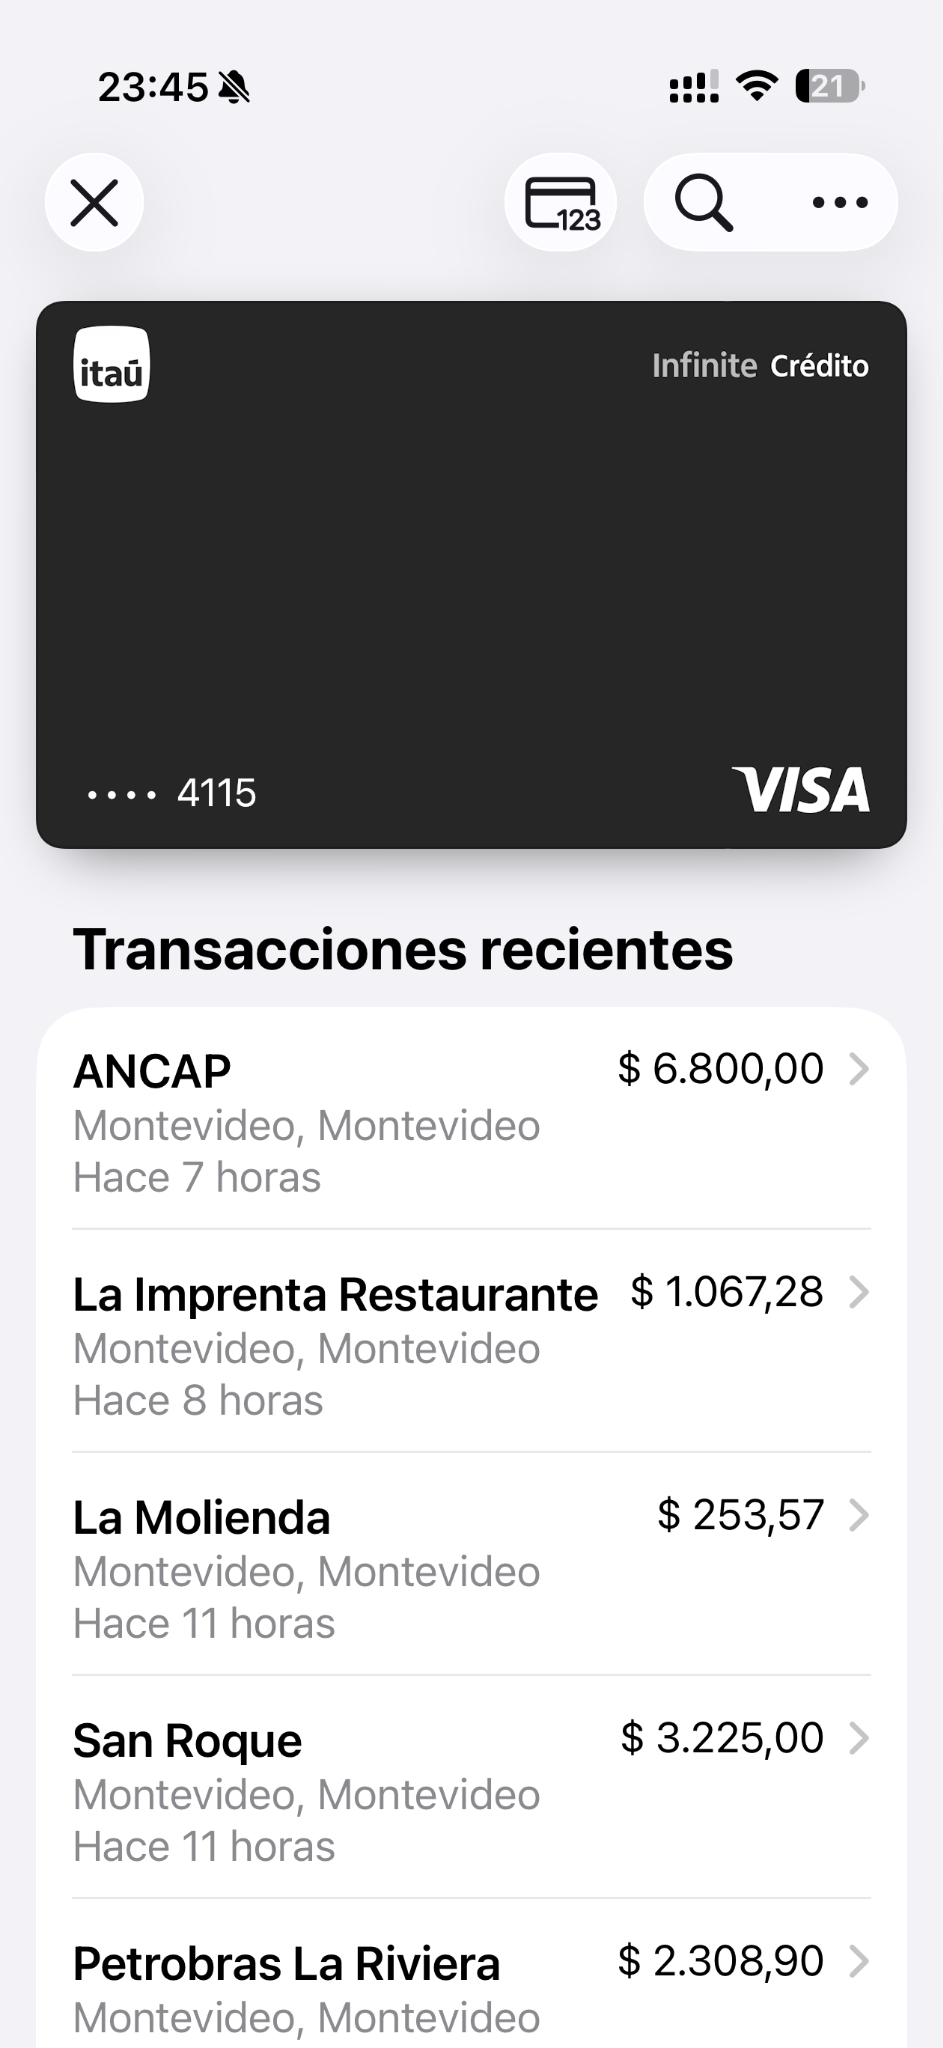
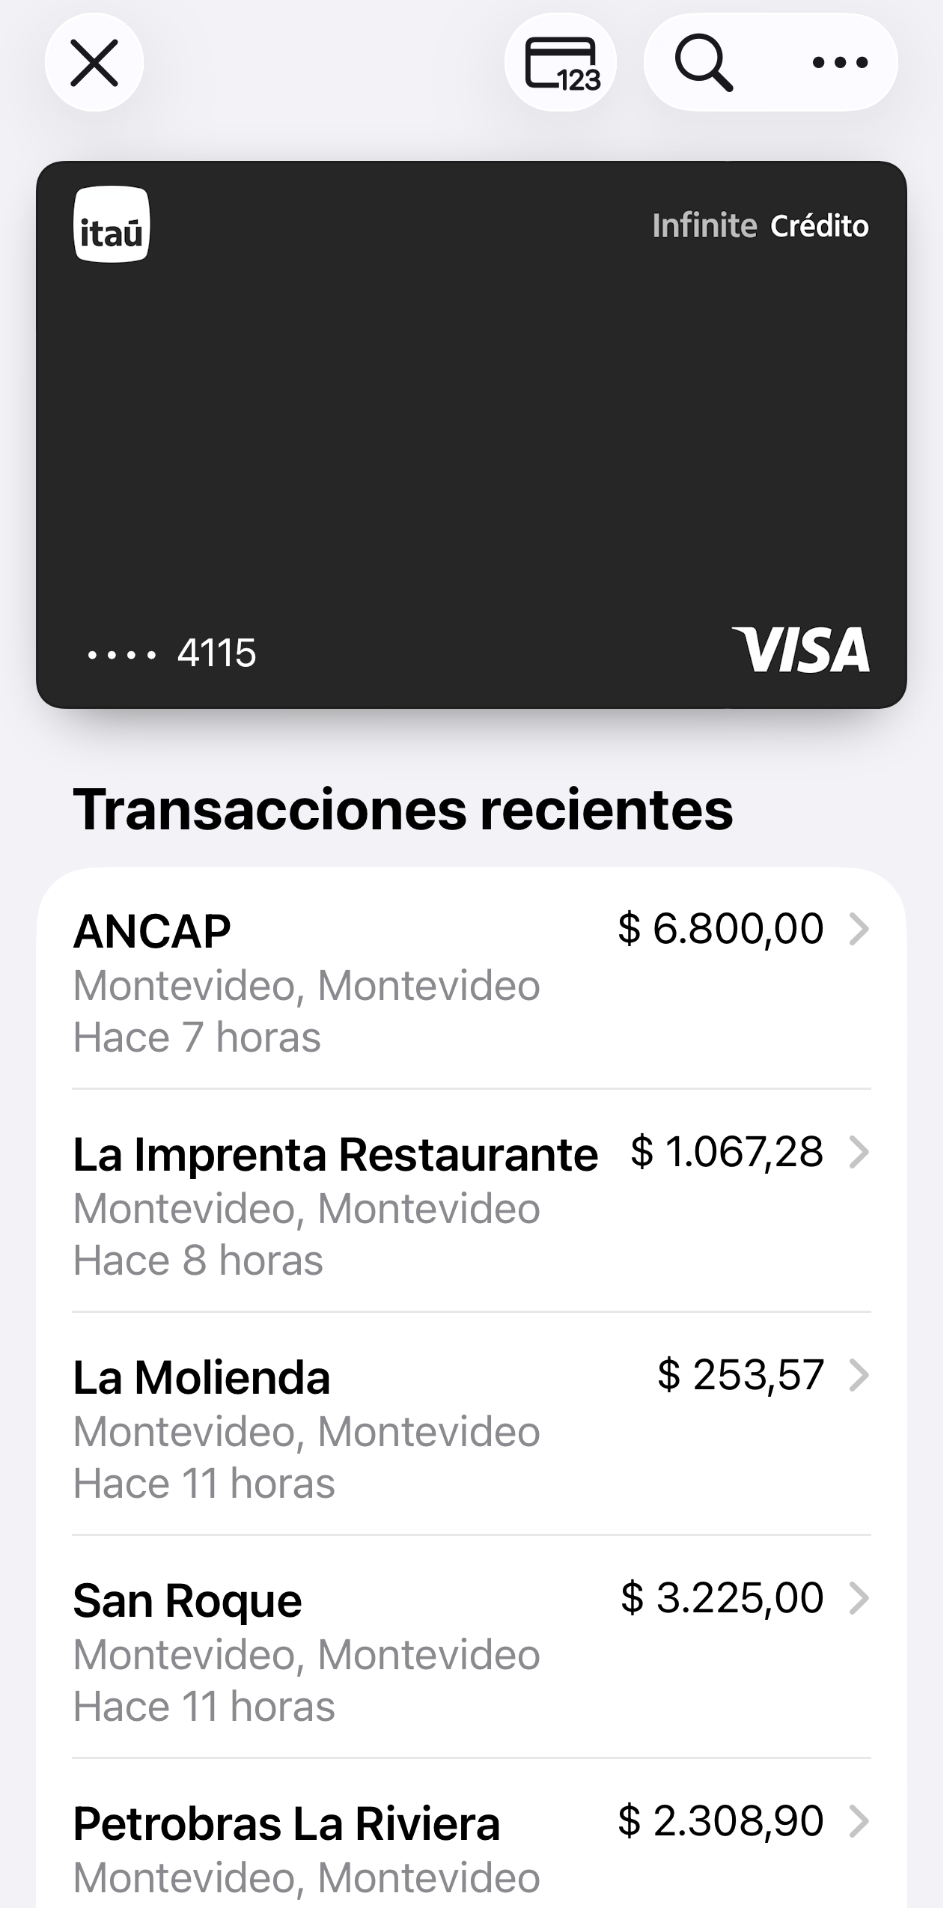
Fondo: recortar barra de estado de la captura (evita doble hora)
La imagen se apoya debajo de la barra de estado real y el fondo usa
#f2f2f7 como Wallet. Caché v5.

diff --git a/index.html b/index.html
@@ -3,24 +3,25 @@
 <head>
   <meta charset="utf-8">
   <meta name="viewport" content="width=device-width,initial-scale=1,viewport-fit=cover,user-scalable=no">
-  <meta name="theme-color" content="#f0eff4">
+  <meta name="theme-color" content="#f2f2f7">
   <meta name="apple-mobile-web-app-capable" content="yes">
   <meta name="apple-mobile-web-app-status-bar-style" content="default">
   <meta name="apple-mobile-web-app-title" content="RayPay">
   <meta name="description" content="RayPay: rayo y trueno sobre una captura de Apple Wallet.">
-  <link rel="manifest" href="manifest.webmanifest?v=3">
+  <link rel="manifest" href="manifest.webmanifest?v=5">
   <link rel="apple-touch-icon" href="icons/icon-192.png">
   <link rel="icon" type="image/png" href="icons/icon-192.png">
   <title>RayPay</title>
   <style>
     * { box-sizing: border-box; -webkit-tap-highlight-color: transparent; }
-    html, body { width:100%;height:100%;margin:0;overflow:hidden;background:#f0eff4; }
+    html, body { width:100%;height:100%;margin:0;overflow:hidden;background:#f2f2f7; }
     body { touch-action:manipulation;user-select:none;-webkit-user-select:none;cursor:pointer; }
     /* Captura original facilitada por el usuario, sin recrear ni modificar la tarjeta. */
+    /* La captura viene SIN su barra de estado (recortada): se apoya justo debajo
+       de la barra de estado real del iPhone, como en Wallet. */
     #walletBackground {
-      position:fixed;inset:0;z-index:0;display:block;
-      width:100%;height:100%;
-      object-fit:cover;object-position:center top;
+      position:fixed;left:0;top:env(safe-area-inset-top,0px);z-index:0;display:block;
+      width:100%;height:auto;
       pointer-events:none;-webkit-user-drag:none;
     }
     #flash {
@@ -40,10 +41,10 @@
   </style>
 </head>
 <body aria-label="RayPay. Toca cualquier parte de la pantalla para lanzar un rayo con sonido.">
-  <img id="walletBackground" src="wallet-background.png" alt="" aria-hidden="true" draggable="false">
+  <img id="walletBackground" src="wallet-background.png?v=5" alt="" aria-hidden="true" draggable="false">
   <div id="flash" aria-hidden="true"></div>
   <canvas id="fx" aria-hidden="true"></canvas>
   <audio id="thunder" preload="auto" playsinline src="thunder.wav"></audio>
-  <script src="app.js?v=4" defer></script>
+  <script src="app.js?v=5" defer></script>
 </body>
 </html>

diff --git a/sw.js b/sw.js
@@ -1,7 +1,7 @@
 // Cache RayPay v3: también conserva la captura auténtica para uso offline.
-const CACHE = 'raypay-v4-wallet-original';
-const files = ['./','./index.html','./app.js?v=4','./wallet-background.png',
-  './thunder.wav','./manifest.webmanifest?v=3','./icons/icon-192.png','./icons/icon-512.png'];
+const CACHE = 'raypay-v5-wallet-original';
+const files = ['./','./index.html','./app.js?v=5','./wallet-background.png?v=5',
+  './thunder.wav','./manifest.webmanifest?v=5','./icons/icon-192.png','./icons/icon-512.png'];
 self.addEventListener('install', event => {
   event.waitUntil(caches.open(CACHE).then(cache => cache.addAll(files)));
   self.skipWaiting();

diff --git a/app.js b/app.js
@@ -131,5 +131,5 @@
       lastVisibilityFire=performance.now();setTimeout(()=>fire(true),220);
     }
   });
-  if('serviceWorker' in navigator)navigator.serviceWorker.register('./sw.js?v=4').catch(()=>{});
+  if('serviceWorker' in navigator)navigator.serviceWorker.register('./sw.js?v=5').catch(()=>{});
 })();
